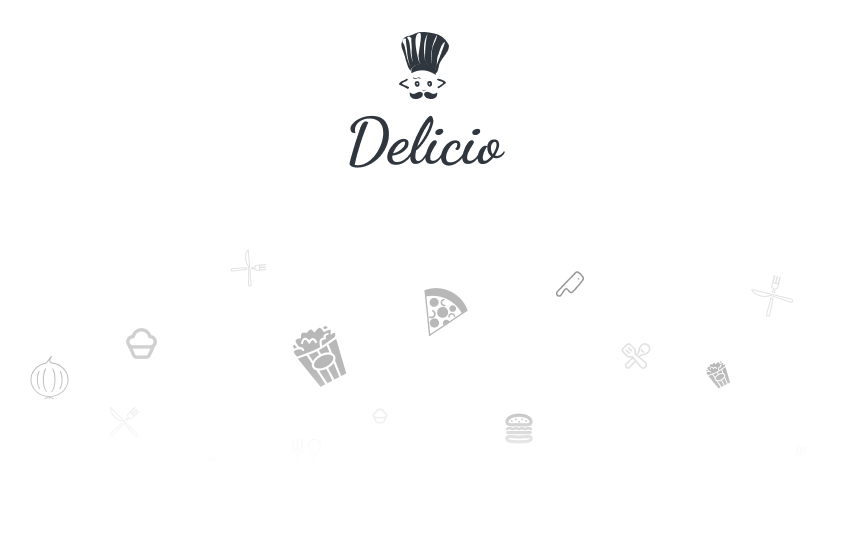
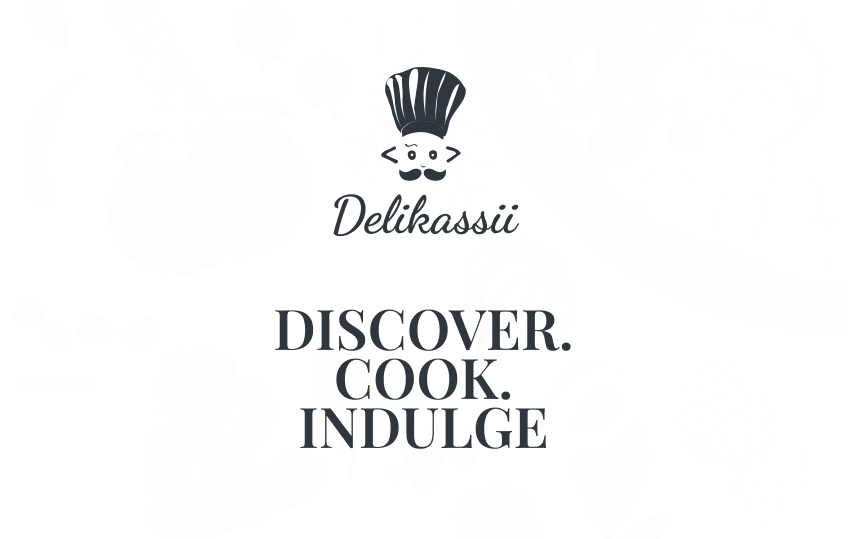
Updated MetaData optimizing for SEO

diff --git a/components/ui/RecipeCard3.tsx b/components/ui/RecipeCard3.tsx
@@ -7,33 +7,33 @@ import Link from 'next/link';
 const RecipeCard3 = ({ recipe }: { recipe: RecipeCardInterface }) => {
   return (
     <Link href={`/recipe/${recipe.id}`}>
-      <div className='min-w-[220px] lg:min-w-[270px] h-[320px] lg:h-[370px] cursor-pointer relative overflow-clip rounded-lg flex items-end justify-start'>
-        <div className='w-full h-full absolute -z-10'>
-          <div className='w-full h-full absolute bg-gradient-to-t from-black/80 from-10% to-black/10' />
-          <Image
-            src={recipe.thumbnail_url || recipe.thumbnail_urls[0]}
-            alt={recipe.thumbnail_alt_text ? recipe.thumbnail_alt_text : recipe.name}
-            width={300}
-            height={300}
-            className='w-full h-full object-cover group-hover/content:scale-105 transition-all duration-300 ease-in-out'
-          />
-        </div>
-        <div className='w-full p-3 space-y-2 text-white group/content'>
+      <div className='min-w-[220px] lg:min-w-[270px] h-[320px] lg:h-[370px] cursor-pointer relative overflow-clip rounded-lg flex items-end justify-start group/content'>
+        <div className='w-full p-3 space-y-3 text-white'>
           <p className='w-full max-w-[30ch] font-semibold line-clamp-2'>{recipe.name}</p>
           <div className='flex items-center justify-start gap-4 text-secondary-900'>
             <div className='flex items-center justify-start gap-1'>
               <div className='text-xl text-accent-900'>
                 <MdTimer />
               </div>
-              <p>{recipe.cook_time_minutes ? (recipe.cook_time_minutes > 0 ? recipe.cook_time_minutes : 15) : 15}min</p>
+              <p className='text-sm'>{recipe.cook_time_minutes ? (recipe.cook_time_minutes > 0 ? recipe.cook_time_minutes : 15) : 15} min</p>
             </div>
             <div className='flex items-center justify-start gap-1'>
               <div className='text-xl text-yellow-500'>
                 <TiStarFullOutline />
               </div>
-              <p>{recipe.user_ratings ? Math.round(recipe.user_ratings.score * 100) / 10 : 8.5}</p>
+              <p className='text-sm'>{recipe.user_ratings ? Math.round(recipe.user_ratings.score * 100) / 10 : 8.5}</p>
             </div>
           </div>
+        </div>
+        <div className='w-full h-full absolute -z-10 group-hover/content:scale-105 transition-all duration-300 ease-in-out'>
+          <div className='w-full h-full absolute bg-gradient-to-t from-black/80 from-10% to-black/10' />
+          <Image
+            src={recipe.thumbnail_url || recipe.thumbnail_urls[0]}
+            alt={recipe.thumbnail_alt_text ? recipe.thumbnail_alt_text : recipe.name}
+            width={300}
+            height={300}
+            className='w-full h-full object-cover'
+          />
         </div>
       </div>
     </Link>

diff --git a/app/recipe/[id]/page.tsx b/app/recipe/[id]/page.tsx
@@ -21,13 +21,54 @@ const getRecipeInfo = unstable_cache(
   { revalidate: 3600, tags: [`recipe`] }
 );
 
+export async function generateMetadata({ params }: { params: { id: string } }) {
+  const recipeId = Number(params.id);
+  if (isNaN(recipeId))
+    return {
+      title: 'Recipe Not Found',
+      description: 'The recipe you are looking for could not be found.',
+    };
+
+  const data: RecipeInfoInterface = await getRecipeInfo(recipeId);
+
+  if (!data)
+    return {
+      title: 'Recipe Not Found',
+      description: 'The recipe you are looking for could not be found.',
+    };
+
+  return {
+    title: `${data.name} | Delikassii`,
+    description: data.description || 'Check out this amazing recipe!',
+    openGraph: {
+      title: `${data.name} | Delikassii`,
+      description: data.description || 'Check out this amazing recipe!',
+      images: [
+        {
+          url: data.thumbnail_url || 'https://placehold.co/400',
+          alt: data.thumbnail_alt_text || data.name,
+        },
+      ],
+    },
+    twitter: {
+      card: 'summary_large_image',
+      title: `${data.name} | Delikassii`,
+      description: data.description || 'Check out this amazing recipe!',
+      images: [
+        {
+          url: data.thumbnail_url || 'https://placehold.co/400',
+          alt: data.thumbnail_alt_text || data.name,
+        },
+      ],
+    },
+  };
+}
+
 export default async function RecipePage({ params }: { params: { id: string } }) {
   const recipeId = Number(params.id);
 
-  if (isNaN(recipeId)) {
-    console.log('Triggering NotFound');
-    notFound();
-  }
+  if (isNaN(recipeId)) notFound();
+
   const formatDate = (date: number) => {
     const data = new Date(date * 1000);
     const month = data.toLocaleString('default', { month: 'long' });

diff --git a/app/layout.tsx b/app/layout.tsx
@@ -20,16 +20,17 @@ const dancingScript = Dancing_Script({
 });
 
 export const metadata: Metadata = {
-  title: 'Delicio',
-  description: 'Delicio is a delicious recipe app, that recommends recipes based on preferences.',
+  title: 'Delikassii',
+  description: 'Find and explore delicious recipes with detailed instructions, nutrition info, and user ratings.',
   openGraph: {
-    url: 'https://delicioo.vercel.app/',
+    url: 'https://Delikassii.vercel.app/',
     type: 'website',
-    title: 'Delicio',
-    description: 'Delicio is a delicious recipe app, that recommends recipes based on preferences.',
+    title: 'Delikassii',
+    description: 'Find and explore delicious recipes with detailed instructions, nutrition info, and user ratings.',
+    siteName: 'Delikassii',
     images: [
       {
-        url: 'https://delicioo.vercel.app/og.png',
+        url: 'https://Delikassii.vercel.app/og.png',
         width: 1200,
         height: 630,
       },
@@ -37,12 +38,12 @@ export const metadata: Metadata = {
   },
   twitter: {
     card: 'summary_large_image',
-    site: 'https://delicioo.vercel.app/',
-    title: 'Delicio',
-    description: 'Delicio is a delicious recipe app, that recommends recipes based on preferences.',
+    site: 'https://Delikassii.vercel.app/',
+    title: 'Delikassii',
+    description: 'Find and explore delicious recipes with detailed instructions, nutrition info, and user ratings.',
     images: [
       {
-        url: 'https://delicioo.vercel.app/og.png',
+        url: 'https://Delikassii.vercel.app/og.png',
         width: 1200,
         height: 630,
       },

diff --git a/components/Footer.tsx b/components/Footer.tsx
@@ -2,16 +2,18 @@ import Link from 'next/link';
 
 const Footer = () => {
   return (
-    <div className='w-full flex flex-col lg:flex-row items-center lg:items-start justify-between gap-y-4 p-2 py-6 border-t border-primary-500'>
+    <div className='w-full p-2 py-6 pt-10 flex flex-col lg:flex-row items-center lg:items-start justify-between gap-y-4 relative'>
+      <div className='w-full h-[1px] bg-primary-500 absolute top-[10%] left-1/2 -translate-x-1/2' />
       <div className='space-y-2 text-center lg:text-left'>
         <Link href='/'>
-          <p className='text-3xl font-bold font-dancingScript'>Delicio</p>
+          <p className='text-4xl font-bold font-dancingScript'>Delikassii</p>
         </Link>
         <p>
-          Get the food recipe more easier <br /> now with <span className='font-bold'>Delicio</span>
+          Find and explore delicious recipes
+          <br /> now with <span className='font-semibold italic font-raleway'>Delikassii</span>
         </p>
       </div>
-      <p className='text-xs text-primary-500 lg:text-sm'>copyright&copy;delicioo.vercel.app 2024</p>
+      <p className='text-sm text-primary-500 lg:text-sm'>copyright &copy; delikassii.vercel.app 2024</p>
     </div>
   );
 };

diff --git a/components/ui/SearchBar.tsx b/components/ui/SearchBar.tsx
@@ -1,6 +1,6 @@
 'use client';
 
-import { useRouter } from 'next/navigation';
+import { usePathname, useRouter } from 'next/navigation';
 import { useState } from 'react';
 import { CiSearch } from 'react-icons/ci';
 
@@ -8,6 +8,10 @@ const SearchBar = () => {
   const router = useRouter();
   const [searchQuery, setSearchQuery] = useState<string>('');
   const [error, setError] = useState<boolean>(false);
+
+  const pathName = usePathname();
+
+  if (pathName.includes('/recipe/')) return null;
 
   const handleSearch = (e: React.FormEvent) => {
     e.preventDefault();

diff --git a/app/search/[query]/page.tsx b/app/search/[query]/page.tsx
@@ -42,6 +42,15 @@ const fetchQuery = unstable_cache(
   { revalidate: 3600, tags: ['search-results'] }
 );
 
+export async function generateMetadata({ params }: { params: { query: string } }) {
+  const searchQuery = params.query;
+
+  return {
+    title: `Recipes for ${searchQuery} - Delikassii`,
+    description: `Explore a variety of delicious recipes for ${searchQuery}. Find your next favorite dish today!`,
+  };
+}
+
 export default async function SearchPage({ params }: { params: { query: string } }) {
   const data = await fetchQuery(params.query);
 

diff --git a/components/Navbar.tsx b/components/Navbar.tsx
@@ -1,16 +1,9 @@
-'use client';
-
-import { usePathname } from 'next/navigation';
 import Categories from './ui/Categories';
 import SearchBar from './ui/SearchBar';
 
 const Navbar = () => {
-  const pathName = usePathname();
-
-  if (pathName.includes('/recipe/')) return null;
-
   return (
-    <div className='w-full  flex flex-col gap-3 items-center justify-between lg:flex-row-reverse'>
+    <div className='w-full flex flex-col gap-3 items-center justify-between lg:flex-row-reverse'>
       <SearchBar />
       <Categories />
     </div>

diff --git a/app/recipes/[tag]/page.tsx b/app/recipes/[tag]/page.tsx
@@ -42,6 +42,15 @@ const fetchTag = unstable_cache(
   { revalidate: 3600, tags: ['tag-results'] }
 );
 
+export async function generateMetadata({ params }: { params: { tag: string } }) {
+  const searchTag = params.tag;
+
+  return {
+    title: `Recipes for ${searchTag} - Delikassii`,
+    description: `Explore a variety of delicious recipes for ${searchTag}. Find your next favorite dish today!`,
+  };
+}
+
 export default async function Page({ params }: { params: { tag: string } }) {
   const data = await fetchTag(params.tag);
 

diff --git a/components/ui/Logo.tsx b/components/ui/Logo.tsx
@@ -6,7 +6,7 @@ const Logo = () => {
     <Link href='/'>
       <div className='flex items-end justify-start gap-2 cursor-pointer'>
         <Image src={'/assets/Logo.svg'} alt='Logo' width={32} height={32} className='w-10' />
-        <p className='text-2xl font-bold font-dancingScript hidden md:block'>Delicio</p>
+        <p className='text-2xl font-bold font-dancingScript hidden md:block'>Delikassii</p>
       </div>
     </Link>
   );

diff --git a/components/ui/Categories.tsx b/components/ui/Categories.tsx
@@ -14,6 +14,8 @@ const Categories = () => {
     setSelected(pathTag ? pathTag : '');
   }, [pathName]);
 
+  if (pathName.includes('/recipe/')) return null;
+
   return (
     <div className='w-full mt-3 lg:mt-0 flex items-center justify-start md:justify-center lg:justify-start gap-3 overflow-x-auto no-scroll-bar'>
       {meals.map((item) => {

diff --git a/components/ui/RecipeCard1.tsx b/components/ui/RecipeCard1.tsx
@@ -1,4 +1,3 @@
-'use client';
 import { MdOutlineBookmarkBorder, MdOutlineAvTimer, MdPersonOutline } from 'react-icons/md';
 import { RecipeCardInterface } from '@/utils/Interfaces';
 import Image from 'next/image';

diff --git a/containers/Feeds.tsx b/containers/Feeds.tsx
@@ -1,5 +1,3 @@
-'use client';
-
 import { RecipeCard2, RecipeCard3 } from '@/components';
 import { FeedDataInterface } from '@/utils/Interfaces';
 
